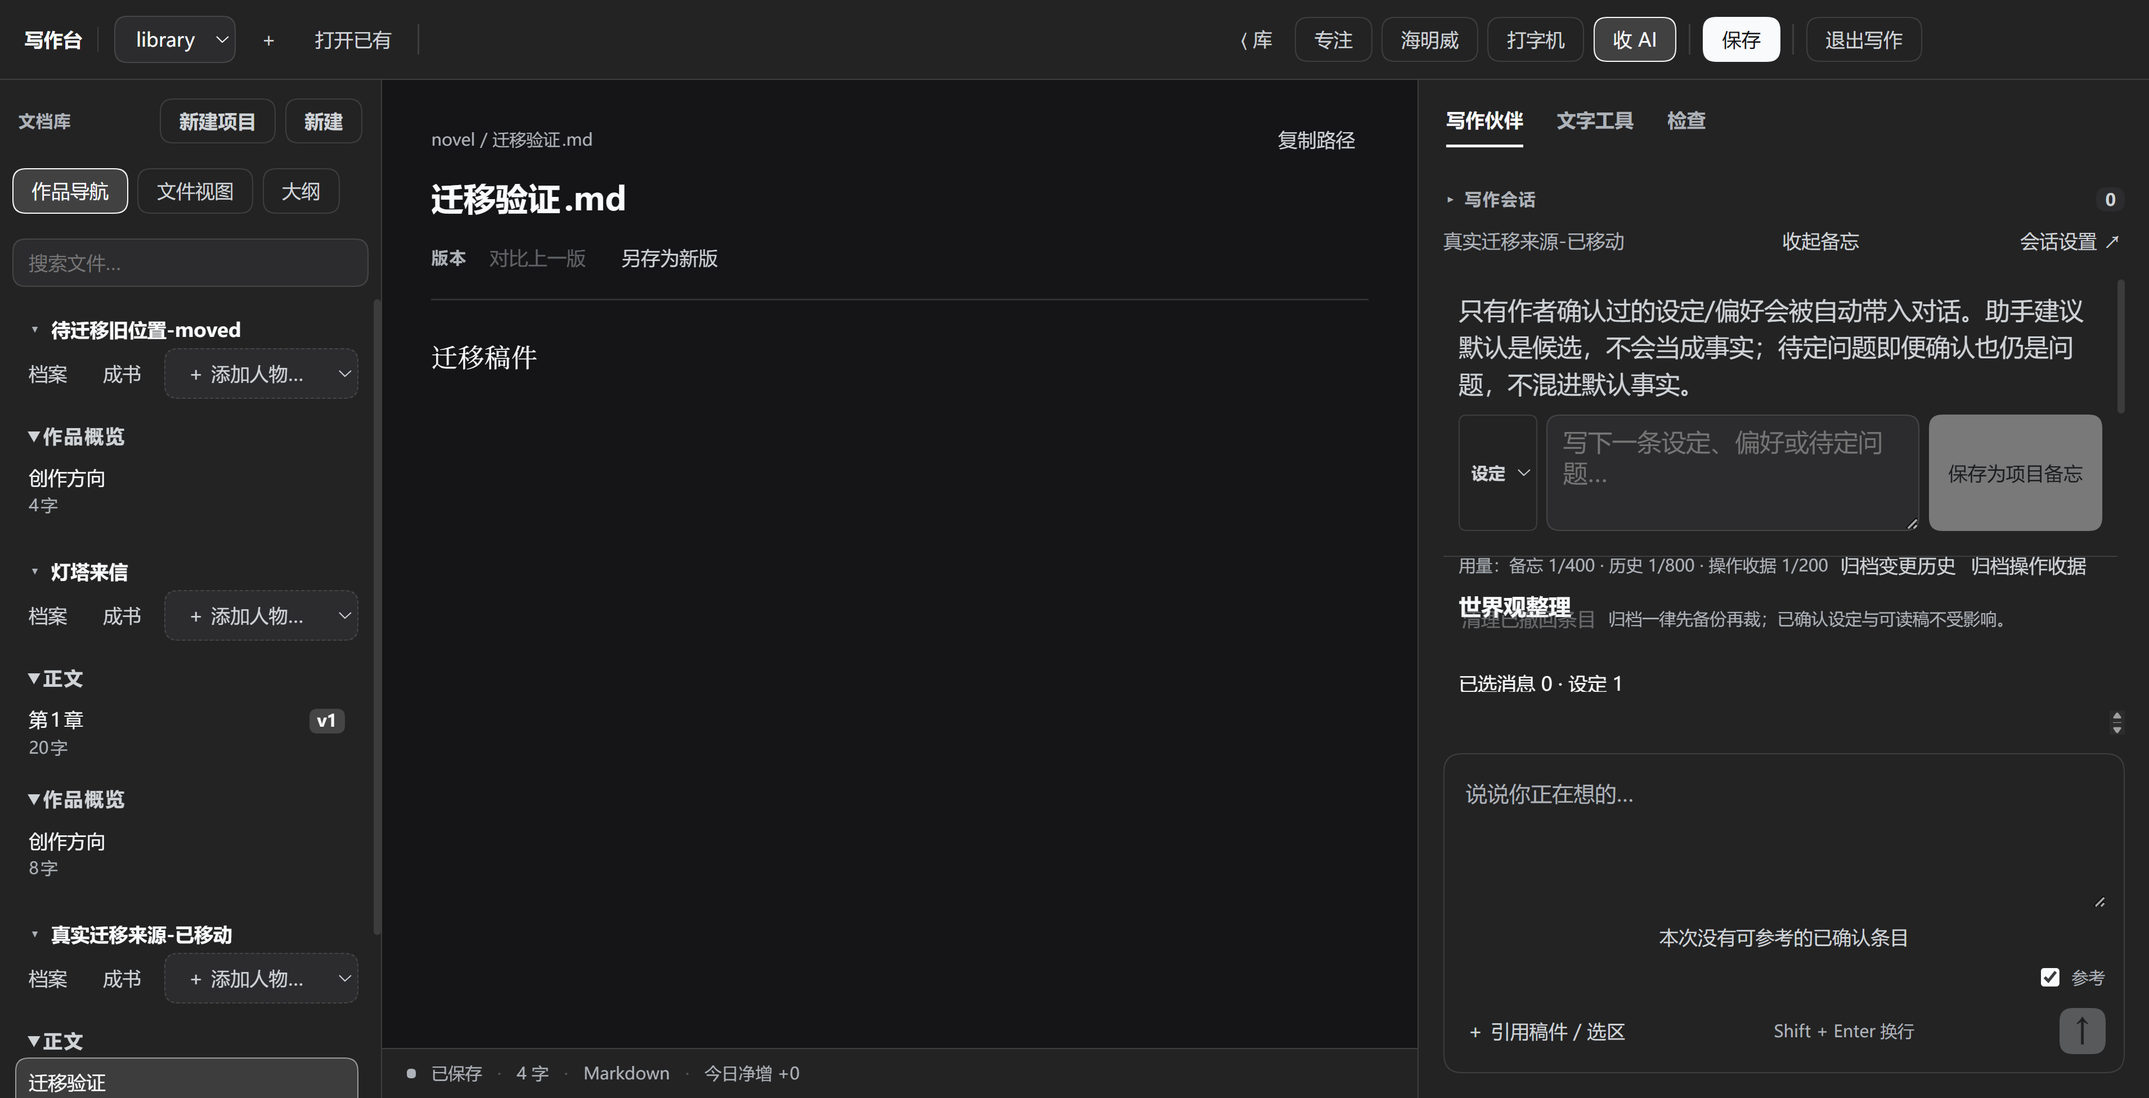
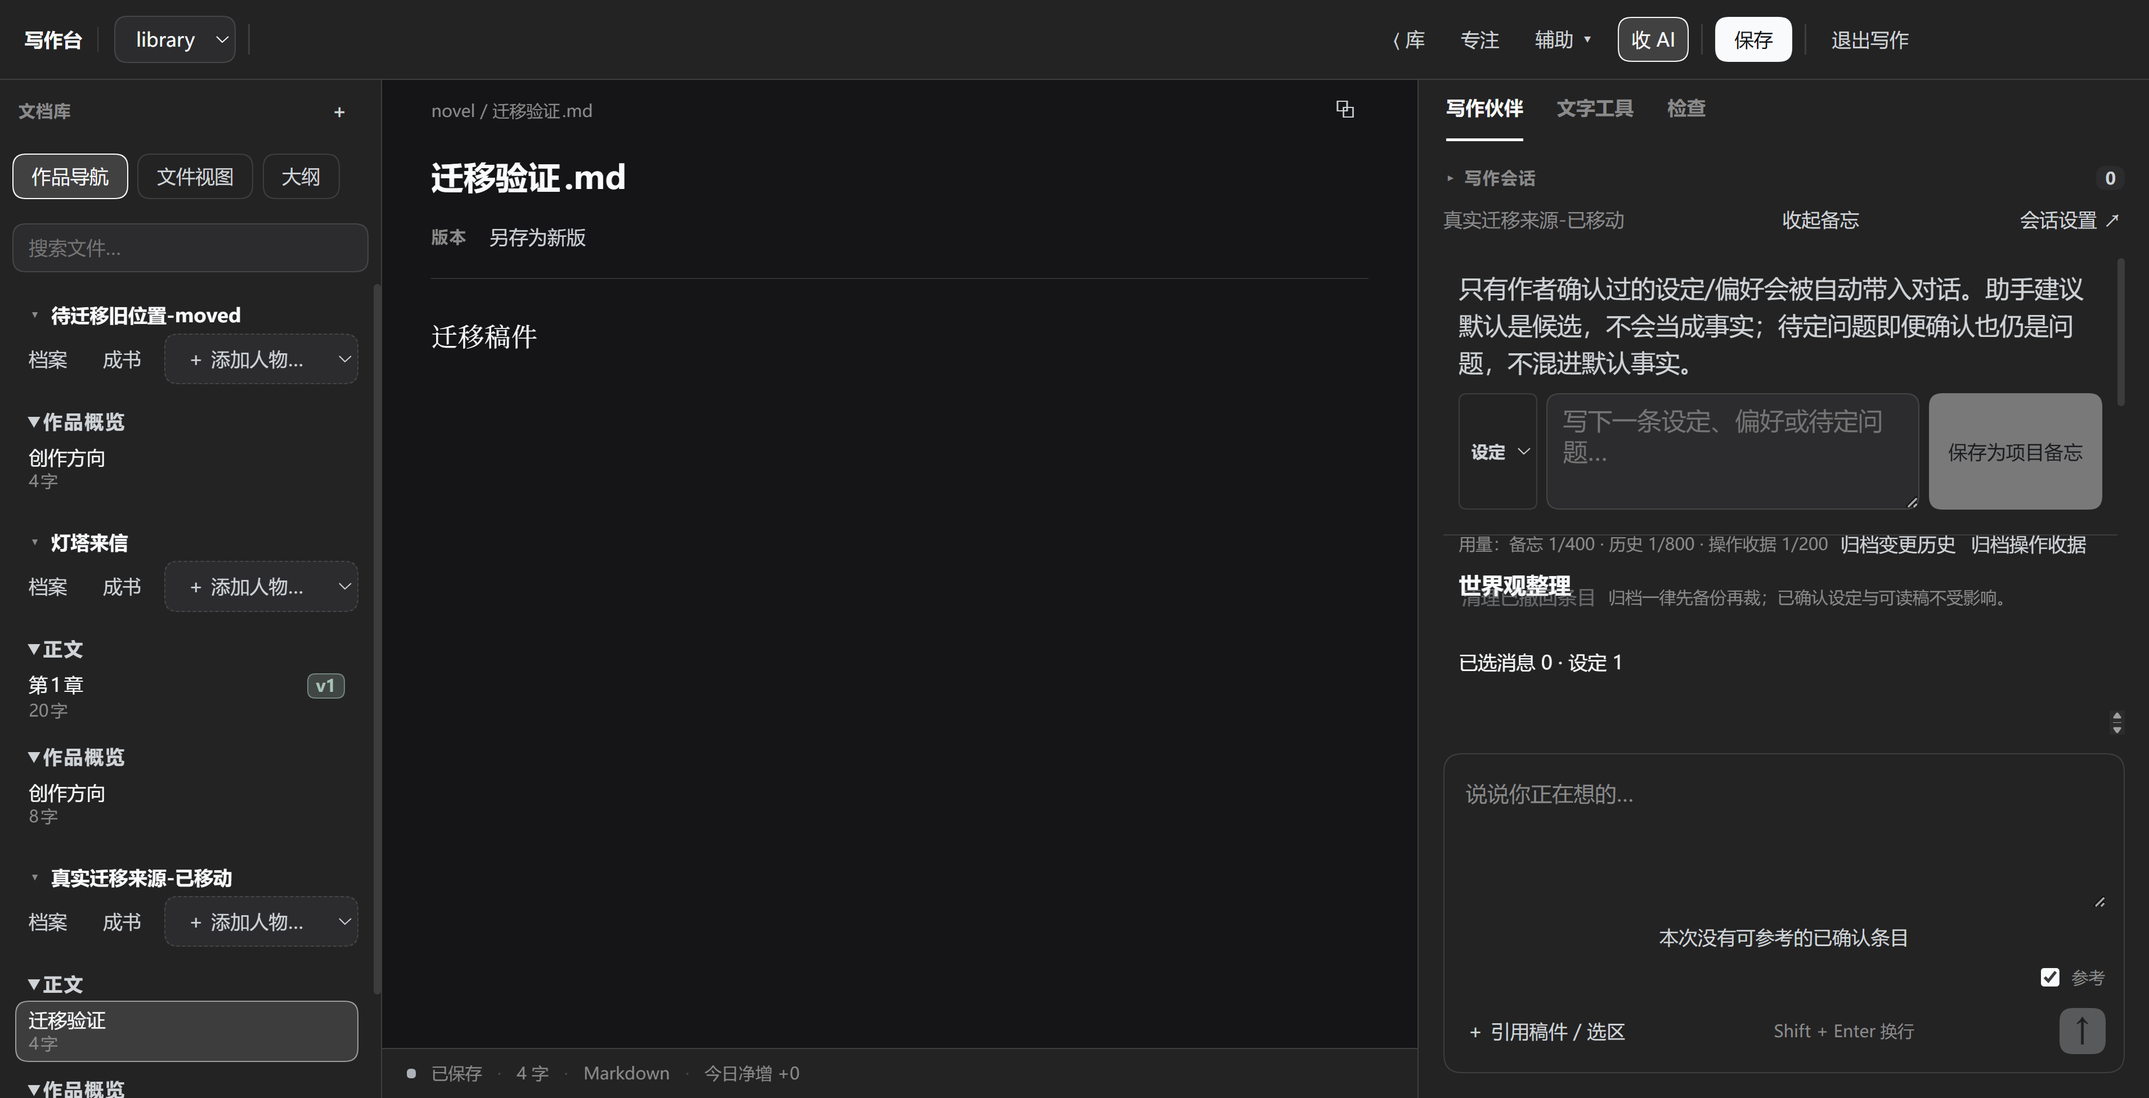
feat(writing): H 轮降噪——档案页空表/空字段过滤 + 粘性目录 + 进度柱条；工具去伪高亮 + 状态条分隔归一 + 版本条折叠

diff --git a/plugin/writing-mode/lib/archive-html.js b/plugin/writing-mode/lib/archive-html.js
@@ -99,6 +99,8 @@ const quoteOf = (l) => /^\s*>\s?(.*)$/.exec(String(l))
 const isTableRow = (l) => /^\s*\|.*\|\s*$/.test(String(l))
 const isTableSep = (l) => /^\s*\|?\s*:?-{2,}:?\s*(?:\|\s*:?-{2,}:?\s*)+\|?\s*$/.test(String(l))
 const cellsOf = (l) => String(l).trim().replace(/^\|/, '').replace(/\|$/, '').split('|').map((c) => c.trim())
+// 光有标签没有内容的行：`题材类型：` / `金手指名称：`。标签限 15 字以内、冒号后即行尾。
+const isLabelOnly = (l) => /^[^：:]{1,15}[：:]\s*$/.test(String(l).trim())
 const inline = (text, refs) => inlineMarks(escapeHtml(text), refs)
 
 /**
@@ -135,6 +137,13 @@ export function renderMarkdown(text, refs, opts) {
       i += 2
       const body = []
       while (i < lines.length && isTableRow(lines[i])) { body.push(cellsOf(lines[i])); i += 1 }
+      // 模板骨架表（没有数据行，或数据行每个单元格都空）：摆一张空表纯属噪音，
+      // 收成一行占位说明，作者填了内容自然会恢复成表。
+      const filled = body.length > 0 && body.some((r) => r.some((c) => c))
+      if (!filled) {
+        out.push('<p class="note">（表格待填：' + head.map((c) => inline(c, refs)).join(' / ') + '）</p>')
+        continue
+      }
       const thead = '<thead><tr>' + head.map((c) => '<th>' + inline(c, refs) + '</th>').join('') + '</tr></thead>'
       const tbody = '<tbody>' + body.map((r) => '<tr>' + r.map((c) => '<td>' + inline(c, refs) + '</td>').join('') + '</tr>').join('') + '</tbody>'
       out.push('<div class="tablewrap"><table>' + thead + tbody + '</table></div>')
@@ -164,7 +173,10 @@ export function renderMarkdown(text, refs, opts) {
       && !isBlank(lines[i]) && !headingOf(lines[i]) && !isHr(lines[i])
       && !bulletOf(lines[i]) && !orderedOf(lines[i]) && !quoteOf(lines[i]) && !isTableRow(lines[i])
     ) { para.push(lines[i]); i += 1 }
-    out.push('<p>' + inline(para.join('\n'), refs).replace(/\n/g, '<br>') + '</p>')
+    // 模板里"光有标签还没填"的行（`题材类型：` 这种）在档案页只是占位噪音，剔除；
+    // 与 premiseOf 的半成品行守卫同一口径。标签限 15 字，正文里真正的句子（一般更长）不受影响。
+    const kept = para.filter((l) => !isLabelOnly(l))
+    if (kept.length) out.push('<p>' + inline(kept.join('\n'), refs).replace(/\n/g, '<br>') + '</p>')
   }
   return out.join('\n')
 }
@@ -198,6 +210,9 @@ ul.plain li{display:flex;gap:10px;padding:5px 0;border-bottom:1px dotted var(--l
 .kind{flex:none;min-width:34px;font-size:11px;color:var(--ink3);font-family:system-ui,sans-serif}
 .stats{display:flex;flex-wrap:wrap;gap:18px;font-family:system-ui,sans-serif;font-size:13px;color:var(--ink2);margin:0 0 10px}
 .stats b{font-size:19px;color:var(--ink)}
+.bars{display:flex;align-items:flex-end;gap:3px;height:30px;margin:0 0 12px}
+.bars .bar{flex:1;max-width:14px;background:var(--line);border-radius:2px 2px 0 0}
+.bars .bar.on{background:var(--brand)}
 ol.chapters{margin:0;padding-left:26px}
 ol.chapters li{display:flex;flex-wrap:wrap;gap:10px;align-items:baseline;padding:3px 0}
 .ch-name{font-weight:600}
@@ -220,7 +235,7 @@ code{font-family:ui-monospace,Consolas,monospace;font-size:.9em;background:var(-
 a{color:inherit}
 footer{margin-top:44px;padding-top:12px;border-top:1px solid var(--line);font-size:11.5px;color:var(--ink3);font-family:system-ui,sans-serif}
 [id]{scroll-margin-top:14px}
-.toc{margin:28px 0 0;padding:12px 16px;border:1px solid var(--line);border-radius:12px;background:var(--layer)}
+.toc{margin:28px 0 0;padding:12px 16px;border:1px solid var(--line);border-radius:12px;background:var(--layer);position:sticky;top:10px;z-index:2;box-shadow:0 8px 24px rgba(41,42,38,.08)}
 .switcher{display:flex;flex-wrap:wrap;align-items:baseline;gap:8px;margin:22px 0 0;padding:10px 14px;border:1px solid var(--line);border-radius:12px;background:var(--layer);font-family:system-ui,sans-serif;font-size:12.5px}
 .switcherLabel{color:var(--ink3);margin-right:2px}
 .switcher a{color:var(--ink2);text-decoration:none;border-bottom:1px dotted var(--ink3)}
@@ -288,6 +303,17 @@ function progressSection(m, refs) {
   const s = m.stats || {}
   const goal = Number(m.dailyGoal) || 0
   const total = rows.reduce((n, r) => n + (Number(r.chars) || 0), 0)
+  // 近 N 天柱条（与写作台检查页同一数据来源 stats.days）：纯 CSS，无脚本
+  const days = Array.isArray(s.days) ? s.days : []
+  const maxDay = Math.max(0, ...days.map((d) => Number(d.total) || 0))
+  const bars = days.length
+    ? '<div class="bars">' + days.map((d) => {
+      const v = Number(d.total) || 0
+      const h = v <= 0 ? 2 : Math.max(4, Math.round((v / maxDay) * 28))
+      return '<span class="bar' + (v > 0 ? ' on' : '') + '" style="height:' + h + 'px" title="'
+        + escapeHtml(d.day) + ' · ' + v + ' 字"></span>'
+    }).join('') + '</div>'
+    : ''
   const gate = (r) => (r.gate
     ? '<span class="gate ' + (r.gate.pass ? 'pass' : 'fail') + '">'
       + inline(r.gate.pass ? '门禁 ✓' : '门禁 ' + (r.gate.fail ?? '?')) + '</span>'
@@ -297,6 +323,7 @@ function progressSection(m, refs) {
     + '<span><b>' + inline(Number(s.streak) || 0) + '</b> 天连更</span>'
     + (goal ? '<span>日目标 <b>' + inline(goal) + '</b></span>' : '')
     + '</p>'
+    + bars
     + (rows.length
       ? '<ol class="chapters">' + rows.map((r, i) => '<li id="ch-' + (i + 1) + '"><span class="ch-name">' + inline(r.name, refs) + '</span>'
         + '<span class="ch-meta">' + inline((Number(r.chars) || 0) + ' 字') + '</span>' + gate(r)
@@ -396,7 +423,7 @@ export function renderArchiveHtml(model = {}) {
     + '<style>' + CSS + '</style></head><body><div class="wrap">'
     + '<header><h1>' + escapeHtml(title) + '</h1>'
     + '<p class="sub">作品档案 · 生成于 ' + escapeHtml(model.generatedAt || '')
-    + ' · 只读投影：改设定请回写作台的项目备忘，这份文件删掉可随时重生成</p>'
+    + ' · 只读投影 · 改设定请回写作台的项目备忘</p>'
     + (model.premise ? '<p class="premise">' + inline(model.premise, refs) + '</p>' : '')
     + '</header>'
     + switcherSection(model)
@@ -459,5 +486,9 @@ export function premiseOf(projectMarkdown) {
     const t = block.trim()
     return t && !/^\s*#/.test(t) && !/[:：]\s*$/.test(t.split('\n')[0]) && t.length >= 6
   }) || '').trim()
-  return para.slice(0, 300)
+  // 段落里仍可能混着"光有标签没内容"的模板行（作品概览就是一串字段），
+  // 只取真正有内容的行，最多前三行，免得把整张字段表当前提。
+  const meaningful = para.split('\n').map((l) => l.trim())
+    .filter((l) => l && !isLabelOnly(l))
+  return meaningful.slice(0, 3).join('；').slice(0, 300)
 }

diff --git a/plugin/writing-mode/client.js b/plugin/writing-mode/client.js
@@ -2726,6 +2726,7 @@ var CSS = [
   "  border:1px solid var(--dsw-alias-border-l2);background:transparent;",
   "  color:var(--dsw-alias-label-secondary);",
   "}",
+  ".dshWmVerMore{align-self:center;color:var(--wm-text-dim);font-size:var(--wm-text-xs);padding:0 2px;}",
   ".dshWmVerChip:hover{border-color:var(--dsw-alias-brand-primary);}",
   ".dshWmVerChip.is-on{",
   "  border-color:var(--dsw-alias-brand-primary);",
@@ -2907,7 +2908,7 @@ var CSS = [
   "  background:var(--dsw-alias-bg-base);",
   "}",
   ".dshWmExportScroll{flex:1;overflow:auto;padding:24px 32px 40px;}",
-  ".dshWmExportInner{max-width:720px;margin:0 auto;display:flex;flex-direction:column;gap:12px;}",
+  ".dshWmExportInner{max-width:820px;margin:0 auto;display:flex;flex-direction:column;gap:12px;}",
   ".dshWmExportHead{display:flex;align-items:center;gap:10px;}",
   ".dshWmExportTitle{font-size:var(--wm-text-lg);font-weight:650;color:var(--dsw-alias-label-primary);}",
   ".dshWmExportField{display:flex;align-items:center;gap:10px;}",
@@ -3391,8 +3392,7 @@ var StatusBar = react2.memo(function StatusBar2({
           title: T.statsToday + "（" + T.stats + "）",
           children: T.statsToday + " +" + stats.today + (dailyGoal > 0 ? " / " + dailyGoal + T.statsGoalUnit : "") + (stats.streak > 1 ? " · " + T.statsStreak + stats.streak + T.statsStreakUnit : "")
         }, "stv") : null,
-        /* G4 分组：码字统计与门禁摘要是两个心智模型，中间放无文本分隔线（复用顶栏那条） */
-        gate ? jsx3.jsx("span", { className: "dshWmBarSep" }, "sep-gate") : null,
+        /* 分组只靠 · 分隔符：顶栏那条 20px 竖线在 32px 状态条里是双重分隔（竖线+中点并存） */
         gate ? jsx3.jsx("span", {
           className: "dshWmStatusSep",
           children: "·"
@@ -5142,8 +5142,20 @@ var EditorChrome = react6.memo(function EditorChrome2({
                 { className: "dshWmVerBarLabel", children: T.versions },
                 "vl"
               ),
-              ...versionSeries.map(
-                (s) => jsx11.jsx(
+              /* 版本一多 chips 会铺满整行：>8 版时只留 v1、当前版与最近 6 版，中间收成 … */
+              ...(() => {
+                const MAX_CHIPS = 8;
+                let shown = versionSeries;
+                let ellipsisAt = -1;
+                if (versionSeries.length > MAX_CHIPS) {
+                  const tail = versionSeries.slice(-6);
+                  const cur = versionSeries.find((s) => s.abs === filePath);
+                  const head = [versionSeries[0]];
+                  if (cur && !tail.includes(cur) && cur !== versionSeries[0]) head.push(cur);
+                  shown = [...head, ...tail];
+                  ellipsisAt = head.length;
+                }
+                const chip = (s) => jsx11.jsx(
                   "button",
                   {
                     type: "button",
@@ -5152,8 +5164,16 @@ var EditorChrome = react6.memo(function EditorChrome2({
                     children: "v" + s.v
                   },
                   "v" + s.v
-                )
-              ),
+                );
+                const out = [];
+                shown.forEach((s, idx) => {
+                  if (idx === ellipsisAt) {
+                    out.push(jsx11.jsx("span", { className: "dshWmVerMore", children: "…" }, "more"));
+                  }
+                  out.push(chip(s));
+                });
+                return out;
+              })(),
               versionSeries.length >= 2 ? jsx11.jsx(
                 "button",
                 {
@@ -22491,7 +22511,9 @@ function WritingModeApp() {
                                     "button",
                                     {
                                       type: "button",
-                                      className: "dshWmBtn" + (a === "research" || a === "spark" ? " is-on" : ""),
+                                      // 动作按钮不是开关：谁也不常驻 is-on（此前 research/spark 恒高亮，
+                                      // 读起来像两个已开启的开关，是工具页"看着乱"的主因）
+                                      className: "dshWmBtn",
                                       disabled: aiBusy,
                                       onClick: () => void runAssist(a),
                                       children: T[a] || a

diff --git a/plugin/writing-mode/src/client/features/editor/EditorChrome.js b/plugin/writing-mode/src/client/features/editor/EditorChrome.js
@@ -101,8 +101,20 @@ export const EditorChrome = react.memo(function EditorChrome({
                     { className: 'dshWmVerBarLabel', children: T.versions },
                     'vl'
                   ),
-                  ...versionSeries.map((s) =>
-                    jsx.jsx(
+                  /* 版本一多 chips 会铺满整行：>8 版时只留 v1、当前版与最近 6 版，中间收成 … */
+                  ...(() => {
+                    const MAX_CHIPS = 8
+                    let shown = versionSeries
+                    let ellipsisAt = -1
+                    if (versionSeries.length > MAX_CHIPS) {
+                      const tail = versionSeries.slice(-6)
+                      const cur = versionSeries.find((s) => s.abs === filePath)
+                      const head = [versionSeries[0]]
+                      if (cur && !tail.includes(cur) && cur !== versionSeries[0]) head.push(cur)
+                      shown = [...head, ...tail]
+                      ellipsisAt = head.length
+                    }
+                    const chip = (s) => jsx.jsx(
                       'button',
                       {
                         type: 'button',
@@ -114,7 +126,15 @@ export const EditorChrome = react.memo(function EditorChrome({
                       },
                       'v' + s.v
                     )
-                  ),
+                    const out = []
+                    shown.forEach((s, idx) => {
+                      if (idx === ellipsisAt) {
+                        out.push(jsx.jsx('span', { className: 'dshWmVerMore', children: '…' }, 'more'))
+                      }
+                      out.push(chip(s))
+                    })
+                    return out
+                  })(),
                   versionSeries.length >= 2
                     ? jsx.jsx(
                         'button',

diff --git a/plugin/writing-mode/src/client/styles/writing-css.js b/plugin/writing-mode/src/client/styles/writing-css.js
@@ -274,6 +274,7 @@ export const CSS = [
   '  border:1px solid var(--dsw-alias-border-l2);background:transparent;',
   '  color:var(--dsw-alias-label-secondary);',
   '}',
+  '.dshWmVerMore{align-self:center;color:var(--wm-text-dim);font-size:var(--wm-text-xs);padding:0 2px;}',
   '.dshWmVerChip:hover{border-color:var(--dsw-alias-brand-primary);}',
   '.dshWmVerChip.is-on{',
   '  border-color:var(--dsw-alias-brand-primary);',
@@ -466,7 +467,7 @@ export const CSS = [
   '  background:var(--dsw-alias-bg-base);',
   '}',
   '.dshWmExportScroll{flex:1;overflow:auto;padding:24px 32px 40px;}',
-  '.dshWmExportInner{max-width:720px;margin:0 auto;display:flex;flex-direction:column;gap:12px;}',
+  '.dshWmExportInner{max-width:820px;margin:0 auto;display:flex;flex-direction:column;gap:12px;}',
   '.dshWmExportHead{display:flex;align-items:center;gap:10px;}',
   '.dshWmExportTitle{font-size:var(--wm-text-lg);font-weight:650;color:var(--dsw-alias-label-primary);}',
   '.dshWmExportField{display:flex;align-items:center;gap:10px;}',

diff --git a/plugin/writing-mode/src/client/app/WritingModeApp.js b/plugin/writing-mode/src/client/app/WritingModeApp.js
@@ -1054,9 +1054,9 @@ export function WritingModeApp() {
                                         'button',
                                         {
                                           type: 'button',
-                                          className:
-                                            'dshWmBtn' +
-                                            (a === 'research' || a === 'spark' ? ' is-on' : ''),
+                                          // 动作按钮不是开关：谁也不常驻 is-on（此前 research/spark 恒高亮，
+                                          // 读起来像两个已开启的开关，是工具页"看着乱"的主因）
+                                          className: 'dshWmBtn',
                                           disabled: aiBusy,
                                           onClick: () => void runAssist(a),
                                           children: T[a] || a,

diff --git a/plugin/writing-mode/src/client/app/StatusBar.js b/plugin/writing-mode/src/client/app/StatusBar.js
@@ -58,8 +58,7 @@ export const StatusBar = react.memo(function StatusBar({
                 (stats.streak > 1 ? ' · ' + T.statsStreak + stats.streak + T.statsStreakUnit : ''),
             }, 'stv')
           : null,
-        /* G4 分组：码字统计与门禁摘要是两个心智模型，中间放无文本分隔线（复用顶栏那条） */
-        gate ? jsx.jsx('span', { className: 'dshWmBarSep' }, 'sep-gate') : null,
+        /* 分组只靠 · 分隔符：顶栏那条 20px 竖线在 32px 状态条里是双重分隔（竖线+中点并存） */
         gate
           ? jsx.jsx('span', {
               className: 'dshWmStatusSep',

diff --git a/CHANGELOG.md b/CHANGELOG.md
@@ -1,3 +1,7 @@
+## [Unreleased]
+
+- 写作台与作品档案页一轮「降噪」：① 作品档案页（wiki 独立窗与导出 HTML 同口径）——模板骨架表不再摆整张空表，收成一行「（表格待填：字段 / …）」占位；「题材类型：」这类光有标签没内容的模板行不再渲染（与 premiseOf 的半成品守卫同一判定函数）；页头副标题精简；目录改粘性常驻（纯 CSS，页面仍零脚本）；进度区补上与检查页同源的近 14 天码字柱条（此前只有覆盖层有）；「一句话前提」回退段不再把整串字段表当前提（只取真正有内容的前三行）。② 写作台——文字工具的「找资料 / 灵感」摘掉常驻高亮（动作按钮不是开关，此前像两个已开启的开关）；状态条去掉门禁前那条顶栏竖线（32px 条里竖线+中点双分隔）；版本 chips 超过 8 个时折叠为 v1 + 当前版 + 最近 6 版（中间 …），不再随版本数铺满整行；成书面板宽度与稿纸归一（820px，切换时中栏不再左右跳）。— 署名：kimi
+
 ## [0.1.48] - 2026-10-04
 
 - 写作台前端重做（结构收口 + 视觉令牌层 + 糙点修复；全部门禁复跑全绿）。结构：`WritingModeApp` 主组件 1853→1149 行，原位抽出顶栏/状态条/文档库面板/稿纸页头/查找栏/对比改稿面板六个纯 props 子组件；库数据（roots/tree/config）收进单一 `library-store`（订阅广播、并发去重、失败保留旧缓存不再闪空态）；文件名/版本号纯函数收编进 `shared/filename.js`（6 处重复实现归一）；world-settings 面板统一为 jsx 运行时风格；`src/` 行尾归一 CRLF。视觉：样式表建语义令牌层（字号 15 档归 5 级、圆角 7 档归 3 档、间距 5 级、字重 3 档、状态色别名），45 处内联样式收编为 19 个具名类（2 处动态柱高保留）。糙点修复：左栏三视图切换补选中态（此前 `aria-pressed` 无任何样式）；「＋ 添加资料」下拉不再溢出且与搜索框外观区分；勾选框跟随主题色；文档名版本号降权（版本主展示归版本条）；顶栏「保存」升主按钮、「退出写作」降普通并按功能分四组加分隔线、收起钮补「库」字；库根未命名时顶栏显示目录名而非完整路径；状态条码字统计降权/门禁摘要加权；小节标题字号不再倒挂（11→12.5px）；右栏「连不上内核」错误卡降权为左竖红条、不再抢占首屏。真 bug 修复：退出写作台时若保存失败，现在明确提示「保存失败，未退出写作台」并指路「重试保存 / 另存新版」（此前静默留下，像退出键坏了）。顺带修：写作台警告色接上外壳主题变量（此前变量名写成 `-warning-` 长名、外壳从未定义，warn 色从未跟随皮肤）；补齐 3 个引用了但没定义的样式类。行为保持有实证：拆分逐块做渲染树等价探针（8 场景 DOM 逐节点一致），world-settings 改写做 `renderToStaticMarkup` 11 组状态逐字节比对。— 署名：Kimi
